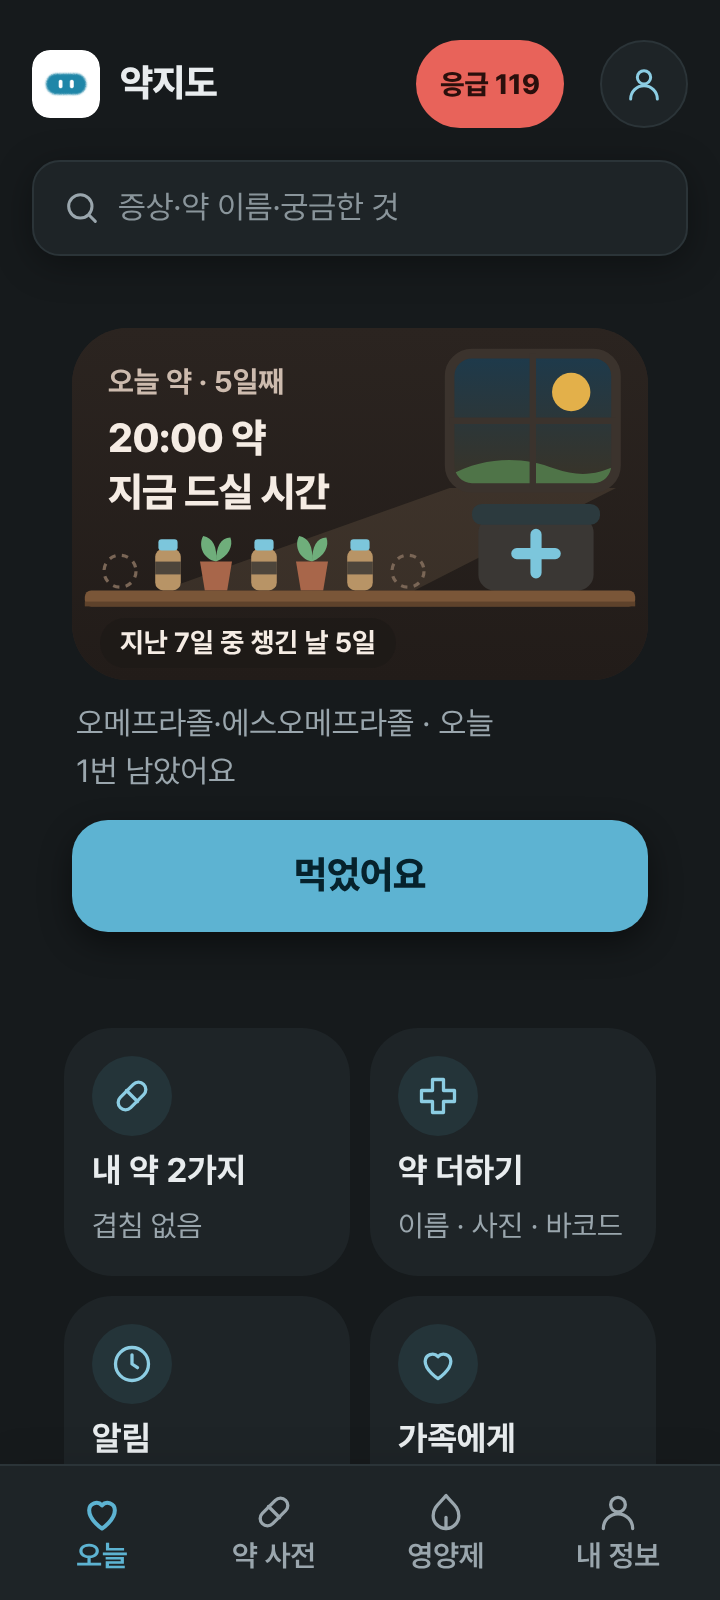
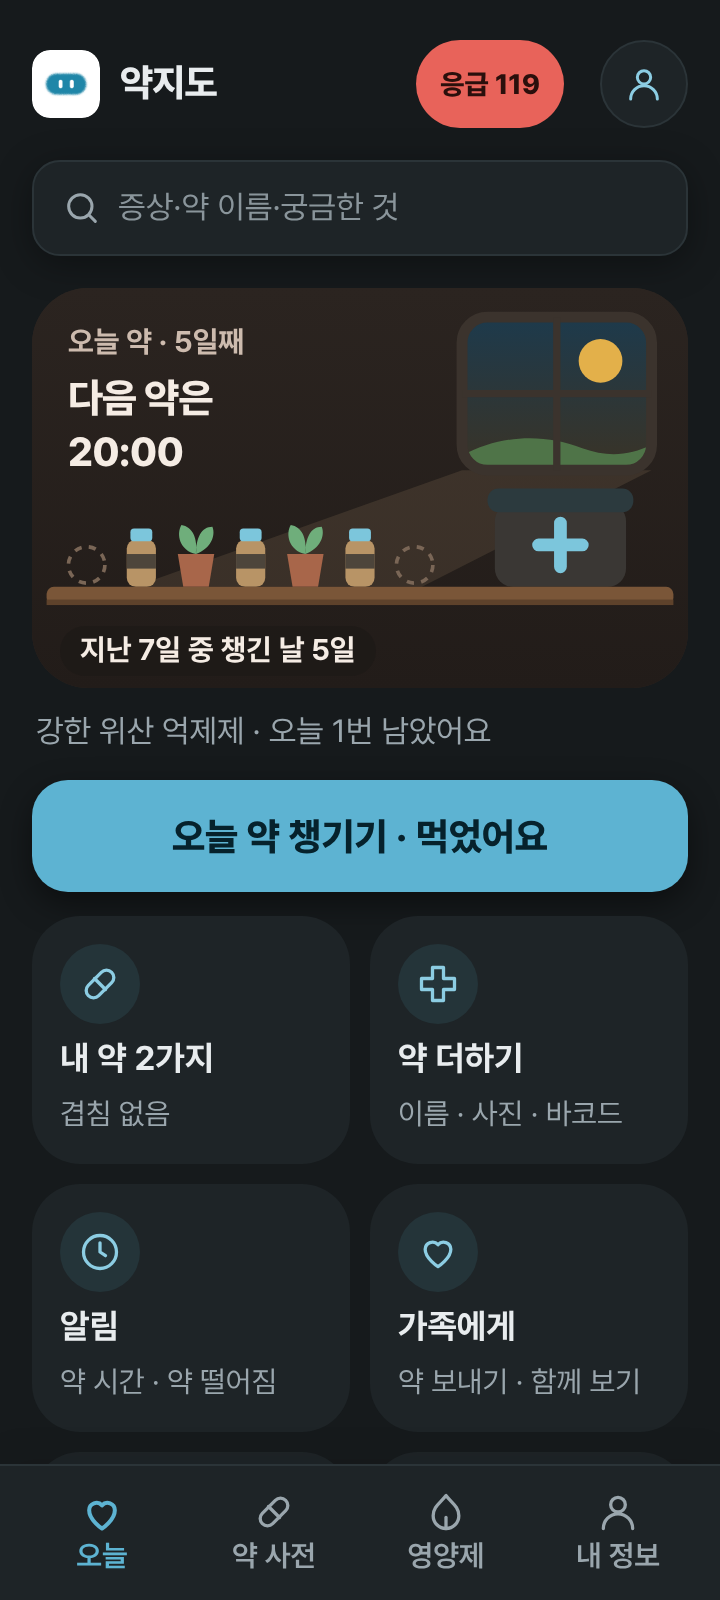
약지도 장면 홈: 묶음 약 이름은 갈래 이름으로 · 장면·타일 검색 칸과 같은 폭 · 같은 갈래 겹침 시험
Claude-Session: https://claude.ai/code/session_01EnA5kC7cG7NGAyuaz7gY2Z

diff --git a/docs/yakjido/srv.js b/docs/yakjido/srv.js
@@ -4096,7 +4096,7 @@ window.언어칸 = function () {
       ':root{--sc-w1:#FFF6E8;--sc-w2:#FBE7CF;--sc-s1:#BFE3F4;--sc-s2:#FFF3DA;--sc-wood:#C68B59;--sc-wood2:#A86F42;--sc-frame:#FFFFFF;--sc-box:#FFFFFF;--sc-lid:#E9F3F5;--sc-cross:#0B6E8F;--sc-pot:#D9875F;--sc-leaf:#5E9E6A;--sc-bot:#F2C98A;--sc-cap:#0B6E8F;--sc-lab:#FFFFFF;--sc-empty:#C9A98A;--sc-beam:rgba(255,236,190,.55);--sc-sun:#FFC94D;--sc-hill:#A9D39A;--sc-ink:#3A2A1E;--sc-sub:#6B5444;--sc-chip:rgba(255,255,255,.86);--tile:#FFFFFF;--tile-ic:#E7F2F5}'
     + '@media (prefers-color-scheme:dark){:root:not([data-theme="light"]){--sc-w1:#2B2420;--sc-w2:#221C19;--sc-s1:#1D3A4C;--sc-s2:#3A3326;--sc-wood:#7A5638;--sc-wood2:#5E422B;--sc-frame:#3B332D;--sc-box:#3A3734;--sc-lid:#2C3A3E;--sc-cross:#7CC6DC;--sc-pot:#A8664A;--sc-leaf:#6FAE7B;--sc-bot:#B89466;--sc-cap:#7CC6DC;--sc-lab:#3A3734;--sc-empty:#7A6656;--sc-beam:rgba(255,220,160,.10);--sc-sun:#E3B04A;--sc-hill:#4F7448;--sc-ink:#F5ECE4;--sc-sub:#CDBBAE;--sc-chip:rgba(30,26,23,.78);--tile:#1E2427;--tile-ic:#243439}}'
     + ':root[data-theme="dark"]{--sc-w1:#2B2420;--sc-w2:#221C19;--sc-s1:#1D3A4C;--sc-s2:#3A3326;--sc-wood:#7A5638;--sc-wood2:#5E422B;--sc-frame:#3B332D;--sc-box:#3A3734;--sc-lid:#2C3A3E;--sc-cross:#7CC6DC;--sc-pot:#A8664A;--sc-leaf:#6FAE7B;--sc-bot:#B89466;--sc-cap:#7CC6DC;--sc-lab:#3A3734;--sc-empty:#7A6656;--sc-beam:rgba(255,220,160,.10);--sc-sun:#E3B04A;--sc-hill:#4F7448;--sc-ink:#F5ECE4;--sc-sub:#CDBBAE;--sc-chip:rgba(30,26,23,.78);--tile:#1E2427;--tile-ic:#243439}'
-    + '.scn-wrap{margin:12px 0 0}.scn{position:relative;display:grid;border-radius:28px;overflow:hidden;background:var(--sc-w1)}.sc-svg{grid-area:1/1;align-self:end;display:block;width:100%;height:auto}.sc-edge{fill:var(--sc-wood2)}'
+    + '.th.scn-wrap,html:not(.ink) .job-hero.scn-wrap,.th-mine.scn-box{margin:12px 0 0;padding:0;background:none;border:0;box-shadow:none;text-align:left}.scn{position:relative;display:grid;border-radius:28px;overflow:hidden;background:var(--sc-w1)}.sc-svg{grid-area:1/1;align-self:end;display:block;width:100%;height:auto}.sc-edge{fill:var(--sc-wood2)}'
     + '.sc-w1{stop-color:var(--sc-w1)}.sc-w2{stop-color:var(--sc-w2)}.sc-s1{stop-color:var(--sc-s1)}.sc-s2{stop-color:var(--sc-s2)}.sc-beam{fill:var(--sc-beam)}.sc-sun{fill:var(--sc-sun)}.sc-hill{fill:var(--sc-hill)}'
     + '.sc-frame{fill:none;stroke:var(--sc-frame);stroke-width:6}.sc-bar{stroke:var(--sc-frame);stroke-width:4}.sc-box>rect{fill:var(--sc-box)}.sc-box .sc-lid{fill:var(--sc-lid)}.sc-cross{stroke:var(--sc-cross);stroke-width:7;stroke-linecap:round}'
     + '.sc-shelf{fill:var(--sc-wood)}.sc-brk{fill:none;stroke:var(--sc-wood2);stroke-width:4;stroke-linecap:round}.sc-empty{fill:none;stroke:var(--sc-empty);stroke-width:2;stroke-dasharray:4 4}'
@@ -4117,7 +4117,7 @@ window.언어칸 = function () {
     rows.sort(function (a, b) { return a.min - b.min; });
     var left = rows.filter(function (r) { return tk.indexOf(r.k) < 0 && !isSkipped(r.k); }), stk = 0; try { stk = streakDays(); } catch (e) {}
     var nx = left[0], slot = nx ? left.filter(function (r) { return r.t === nx.t; }) : [], due = nx && nx.min <= nm + 30;
-    var nmz = function (r) { return esc(String(r.d.simple && !r.d.name ? r.d.simple : r.d.name || '').split(' (')[0]); };
+    var nmz = function (r) { return esc(한이름(r.d.simple && !r.d.name ? r.d.simple : r.d.name)); };
     var 판 = '', stop = 0, warn = 0; try { var C = ixCards(ixRun([])); stop = C.filter(function (c) { return c.lv === 'stop'; }).length; warn = C.filter(function (c) { return c.lv === 'warn'; }).length; } catch (e) {}
     판 = stop ? '같이 드시면 안 되는 것 ' + stop : warn ? '조심할 것 ' + warn : '겹침 없음';
     var low = []; try { low = lowStock(); } catch (e) {}
@@ -4134,10 +4134,12 @@ window.언어칸 = function () {
       ['#/notify', 'clock', '알림', '약 시간 · 약 떨어짐'], ['#/send', 'heart', '가족에게', '약 보내기 · 함께 보기'],
       ['#/bag', 'book', '내 약 한 장', '진료·약국에 보여 줄 한 장'], ['내약더()', 'chev', '더 보기', '약통 · 가족 약 따로', 'scn-more']];
     return '<section class="th scn-wrap' + (sv ? ' sv' : '') + '">' + 안전 + profRow() + 약장면({ cap: cap, big: big, sub: sub, sv: sv, todayDone: done }) + 단추 + famToday() + '</section>'
-      + '<section class="th-mine' + (sv ? ' sv' : '') + '">' + 장면타일(타일).replace('class="scn-tiles"', 'class="scn-tiles' + (sv ? ' sv' : '') + '"') + (sv ? 쉬운목록(items) : '') + '</section>';
+      + '<section class="th-mine scn-box' + (sv ? ' sv' : '') + '">' + 장면타일(타일).replace('class="scn-tiles"', 'class="scn-tiles' + (sv ? ' sv' : '') + '"') + (sv ? 쉬운목록(items) : '') + '</section>';
   }
+  /* 11-18 Main — 한 약 이름에 성분 둘이 «·»로 붙은 묶음 항목(오메프라졸·에스오메프라졸 (강한 위산 억제제))은 두 약처럼 읽힌다 → 괄호 속 갈래 이름 */
+  function 한이름(n) { n = String(n || ''); var b = n.split(' (')[0], m = n.match(/\(([^)]+)\)/); return b.indexOf('·') >= 0 && m ? m[1] : b; }
   function 쉬운목록(items) {
-    return '<ul class="job-list">' + items.slice(0, 6).map(function (d) { var dk = d.class || ((typeof drug === 'function' && drug(d.id)) || {}).class, c0 = (D.classes || []).filter(function (c) { return c.id === dk; })[0], g = d.quick ? d.quick.g.n : c0 ? String(c0.name).split('(')[0].trim() : ''; return '<li><b>' + esc(짧은이름(d.name)) + '</b>' + (g ? '<span>' + esc(g) + '</span>' : '') + '</li>'; }).join('') + (items.length > 6 ? '<li><a href="#/me?t=meds">' + (items.length - 6) + '가지 더 ›</a></li>' : '') + '</ul>';
+    return '<ul class="job-list">' + items.slice(0, 6).map(function (d) { var dk = d.class || ((typeof drug === 'function' && drug(d.id)) || {}).class, c0 = (D.classes || []).filter(function (c) { return c.id === dk; })[0], g = d.quick ? d.quick.g.n : c0 ? String(c0.name).split('(')[0].trim() : ''; return '<li><b>' + esc(String(d.name || '').split(' (')[0].indexOf('·') >= 0 ? 한이름(d.name) : 짧은이름(d.name)) + '</b>' + (g ? '<span>' + esc(g) + '</span>' : '') + '</li>'; }).join('') + (items.length > 6 ? '<li><a href="#/me?t=meds">' + (items.length - 6) + '가지 더 ›</a></li>' : '') + '</ul>';
   }
   window.내약더 = function () { var o = document.createElement('div'); o.className = 'dlg-bg'; o.setAttribute('role', 'dialog'); o.setAttribute('aria-label', '내 약 더 보기');
     var L = [['#/notify', '알림', '약 시간 · 다시 알림 · 약 떨어짐'], ['#/send', '가족에게', '부모님께 약 보내기 · 함께 보기'], ['#/bag', '내 약 한 장', '진료·약국에 보여 줄 한 장'], ['#/me?t=meds', '약통', '담은 약 고치기 · 빼기'], ['#/barcode', '상자 바코드로 담기', '약 상자 옆 막대 무늬를 비춰서'], ['#/people', '가족 약 따로 담기', '어머니·아이 약을 사람마다']];
@@ -4152,7 +4154,7 @@ window.언어칸 = function () {
     if (!items.length && !잉 && !ALLV()) { var 누 = (profIsMe() ? '내 약을' : esc(profCall(profName())) + ' 약을') + '<br>담아 두세요';
       return '<section class="job-hero scn-wrap' + (sv0 ? ' sv' : '') + '">' + profRow() + 약장면({ cap: '오늘 약', big: 누, sub: '한 번 담으면 기억해요. 새 약이 들어오면 <b>같이 먹으면 안 되는 것</b>을 바로 알려 드려요.', sv: sv0 })
         + '<button type="button" class="btn th-go scn-go" ' + DI('solid') + ' onclick="go(\'/together\')">약 찾기</button>' + famToday() + '</section>'
-        + '<section class="th-mine' + (sv0 ? ' sv' : '') + '">' + 장면타일([['go(\'/photo\')', 'search', '사진으로 담기', '약봉투·처방전'], ['#/barcode', 'cross', '상자 바코드로', '상자 옆 막대 무늬'], ['#/kinds', 'pill', '종류만 골라 담기', '이름을 몰라도'], ['#/people', 'heart', '가족 약 따로', '어머니·아이 약']]).replace('class="scn-tiles"', 'class="scn-tiles' + (sv0 ? ' sv' : '') + '"') + '</section>'; }
+        + '<section class="th-mine scn-box' + (sv0 ? ' sv' : '') + '">' + 장면타일([['go(\'/photo\')', 'search', '사진으로 담기', '약봉투·처방전'], ['#/barcode', 'cross', '상자 바코드로', '상자 옆 막대 무늬'], ['#/kinds', 'pill', '종류만 골라 담기', '이름을 몰라도'], ['#/people', 'heart', '가족 약 따로', '어머니·아이 약']]).replace('class="scn-tiles"', 'class="scn-tiles' + (sv0 ? ' sv' : '') + '"') + '</section>'; }
     if (!items.length) return '<section class="job-hero' + (document.documentElement.classList.contains('ink') ? '' : ' card') + '">' + profRow() + 잉크얼굴(72) + '<h1>' + (profIsMe() ? '내 약을 담아 두세요' : esc(profCall(profName())) + ' 약을 담아 두세요') + '</h1><p>한 번 담으면 기억해요. 새 약이 들어오면 <b>같이 먹으면 안 되는 것</b>을 바로 알려 드려요.</p>' +
       '<div class="job-add"><button type="button" class="btn" ' + DI('solid') + ' onclick="go(\'/photo\')">약봉투·처방전 사진으로</button><button type="button" class="btn line" onclick="go(\'/together\')">약 이름으로 찾기</button></div>' +
       '<p class="job-small"><a href="#/kinds">이름을 몰라도 종류만 골라 담기 ›</a></p>' + famToday() + profLink() + '</section>';

diff --git a/yakjido/srv.js b/yakjido/srv.js
@@ -4096,7 +4096,7 @@ window.언어칸 = function () {
       ':root{--sc-w1:#FFF6E8;--sc-w2:#FBE7CF;--sc-s1:#BFE3F4;--sc-s2:#FFF3DA;--sc-wood:#C68B59;--sc-wood2:#A86F42;--sc-frame:#FFFFFF;--sc-box:#FFFFFF;--sc-lid:#E9F3F5;--sc-cross:#0B6E8F;--sc-pot:#D9875F;--sc-leaf:#5E9E6A;--sc-bot:#F2C98A;--sc-cap:#0B6E8F;--sc-lab:#FFFFFF;--sc-empty:#C9A98A;--sc-beam:rgba(255,236,190,.55);--sc-sun:#FFC94D;--sc-hill:#A9D39A;--sc-ink:#3A2A1E;--sc-sub:#6B5444;--sc-chip:rgba(255,255,255,.86);--tile:#FFFFFF;--tile-ic:#E7F2F5}'
     + '@media (prefers-color-scheme:dark){:root:not([data-theme="light"]){--sc-w1:#2B2420;--sc-w2:#221C19;--sc-s1:#1D3A4C;--sc-s2:#3A3326;--sc-wood:#7A5638;--sc-wood2:#5E422B;--sc-frame:#3B332D;--sc-box:#3A3734;--sc-lid:#2C3A3E;--sc-cross:#7CC6DC;--sc-pot:#A8664A;--sc-leaf:#6FAE7B;--sc-bot:#B89466;--sc-cap:#7CC6DC;--sc-lab:#3A3734;--sc-empty:#7A6656;--sc-beam:rgba(255,220,160,.10);--sc-sun:#E3B04A;--sc-hill:#4F7448;--sc-ink:#F5ECE4;--sc-sub:#CDBBAE;--sc-chip:rgba(30,26,23,.78);--tile:#1E2427;--tile-ic:#243439}}'
     + ':root[data-theme="dark"]{--sc-w1:#2B2420;--sc-w2:#221C19;--sc-s1:#1D3A4C;--sc-s2:#3A3326;--sc-wood:#7A5638;--sc-wood2:#5E422B;--sc-frame:#3B332D;--sc-box:#3A3734;--sc-lid:#2C3A3E;--sc-cross:#7CC6DC;--sc-pot:#A8664A;--sc-leaf:#6FAE7B;--sc-bot:#B89466;--sc-cap:#7CC6DC;--sc-lab:#3A3734;--sc-empty:#7A6656;--sc-beam:rgba(255,220,160,.10);--sc-sun:#E3B04A;--sc-hill:#4F7448;--sc-ink:#F5ECE4;--sc-sub:#CDBBAE;--sc-chip:rgba(30,26,23,.78);--tile:#1E2427;--tile-ic:#243439}'
-    + '.scn-wrap{margin:12px 0 0}.scn{position:relative;display:grid;border-radius:28px;overflow:hidden;background:var(--sc-w1)}.sc-svg{grid-area:1/1;align-self:end;display:block;width:100%;height:auto}.sc-edge{fill:var(--sc-wood2)}'
+    + '.th.scn-wrap,html:not(.ink) .job-hero.scn-wrap,.th-mine.scn-box{margin:12px 0 0;padding:0;background:none;border:0;box-shadow:none;text-align:left}.scn{position:relative;display:grid;border-radius:28px;overflow:hidden;background:var(--sc-w1)}.sc-svg{grid-area:1/1;align-self:end;display:block;width:100%;height:auto}.sc-edge{fill:var(--sc-wood2)}'
     + '.sc-w1{stop-color:var(--sc-w1)}.sc-w2{stop-color:var(--sc-w2)}.sc-s1{stop-color:var(--sc-s1)}.sc-s2{stop-color:var(--sc-s2)}.sc-beam{fill:var(--sc-beam)}.sc-sun{fill:var(--sc-sun)}.sc-hill{fill:var(--sc-hill)}'
     + '.sc-frame{fill:none;stroke:var(--sc-frame);stroke-width:6}.sc-bar{stroke:var(--sc-frame);stroke-width:4}.sc-box>rect{fill:var(--sc-box)}.sc-box .sc-lid{fill:var(--sc-lid)}.sc-cross{stroke:var(--sc-cross);stroke-width:7;stroke-linecap:round}'
     + '.sc-shelf{fill:var(--sc-wood)}.sc-brk{fill:none;stroke:var(--sc-wood2);stroke-width:4;stroke-linecap:round}.sc-empty{fill:none;stroke:var(--sc-empty);stroke-width:2;stroke-dasharray:4 4}'
@@ -4117,7 +4117,7 @@ window.언어칸 = function () {
     rows.sort(function (a, b) { return a.min - b.min; });
     var left = rows.filter(function (r) { return tk.indexOf(r.k) < 0 && !isSkipped(r.k); }), stk = 0; try { stk = streakDays(); } catch (e) {}
     var nx = left[0], slot = nx ? left.filter(function (r) { return r.t === nx.t; }) : [], due = nx && nx.min <= nm + 30;
-    var nmz = function (r) { return esc(String(r.d.simple && !r.d.name ? r.d.simple : r.d.name || '').split(' (')[0]); };
+    var nmz = function (r) { return esc(한이름(r.d.simple && !r.d.name ? r.d.simple : r.d.name)); };
     var 판 = '', stop = 0, warn = 0; try { var C = ixCards(ixRun([])); stop = C.filter(function (c) { return c.lv === 'stop'; }).length; warn = C.filter(function (c) { return c.lv === 'warn'; }).length; } catch (e) {}
     판 = stop ? '같이 드시면 안 되는 것 ' + stop : warn ? '조심할 것 ' + warn : '겹침 없음';
     var low = []; try { low = lowStock(); } catch (e) {}
@@ -4134,10 +4134,12 @@ window.언어칸 = function () {
       ['#/notify', 'clock', '알림', '약 시간 · 약 떨어짐'], ['#/send', 'heart', '가족에게', '약 보내기 · 함께 보기'],
       ['#/bag', 'book', '내 약 한 장', '진료·약국에 보여 줄 한 장'], ['내약더()', 'chev', '더 보기', '약통 · 가족 약 따로', 'scn-more']];
     return '<section class="th scn-wrap' + (sv ? ' sv' : '') + '">' + 안전 + profRow() + 약장면({ cap: cap, big: big, sub: sub, sv: sv, todayDone: done }) + 단추 + famToday() + '</section>'
-      + '<section class="th-mine' + (sv ? ' sv' : '') + '">' + 장면타일(타일).replace('class="scn-tiles"', 'class="scn-tiles' + (sv ? ' sv' : '') + '"') + (sv ? 쉬운목록(items) : '') + '</section>';
+      + '<section class="th-mine scn-box' + (sv ? ' sv' : '') + '">' + 장면타일(타일).replace('class="scn-tiles"', 'class="scn-tiles' + (sv ? ' sv' : '') + '"') + (sv ? 쉬운목록(items) : '') + '</section>';
   }
+  /* 11-18 Main — 한 약 이름에 성분 둘이 «·»로 붙은 묶음 항목(오메프라졸·에스오메프라졸 (강한 위산 억제제))은 두 약처럼 읽힌다 → 괄호 속 갈래 이름 */
+  function 한이름(n) { n = String(n || ''); var b = n.split(' (')[0], m = n.match(/\(([^)]+)\)/); return b.indexOf('·') >= 0 && m ? m[1] : b; }
   function 쉬운목록(items) {
-    return '<ul class="job-list">' + items.slice(0, 6).map(function (d) { var dk = d.class || ((typeof drug === 'function' && drug(d.id)) || {}).class, c0 = (D.classes || []).filter(function (c) { return c.id === dk; })[0], g = d.quick ? d.quick.g.n : c0 ? String(c0.name).split('(')[0].trim() : ''; return '<li><b>' + esc(짧은이름(d.name)) + '</b>' + (g ? '<span>' + esc(g) + '</span>' : '') + '</li>'; }).join('') + (items.length > 6 ? '<li><a href="#/me?t=meds">' + (items.length - 6) + '가지 더 ›</a></li>' : '') + '</ul>';
+    return '<ul class="job-list">' + items.slice(0, 6).map(function (d) { var dk = d.class || ((typeof drug === 'function' && drug(d.id)) || {}).class, c0 = (D.classes || []).filter(function (c) { return c.id === dk; })[0], g = d.quick ? d.quick.g.n : c0 ? String(c0.name).split('(')[0].trim() : ''; return '<li><b>' + esc(String(d.name || '').split(' (')[0].indexOf('·') >= 0 ? 한이름(d.name) : 짧은이름(d.name)) + '</b>' + (g ? '<span>' + esc(g) + '</span>' : '') + '</li>'; }).join('') + (items.length > 6 ? '<li><a href="#/me?t=meds">' + (items.length - 6) + '가지 더 ›</a></li>' : '') + '</ul>';
   }
   window.내약더 = function () { var o = document.createElement('div'); o.className = 'dlg-bg'; o.setAttribute('role', 'dialog'); o.setAttribute('aria-label', '내 약 더 보기');
     var L = [['#/notify', '알림', '약 시간 · 다시 알림 · 약 떨어짐'], ['#/send', '가족에게', '부모님께 약 보내기 · 함께 보기'], ['#/bag', '내 약 한 장', '진료·약국에 보여 줄 한 장'], ['#/me?t=meds', '약통', '담은 약 고치기 · 빼기'], ['#/barcode', '상자 바코드로 담기', '약 상자 옆 막대 무늬를 비춰서'], ['#/people', '가족 약 따로 담기', '어머니·아이 약을 사람마다']];
@@ -4152,7 +4154,7 @@ window.언어칸 = function () {
     if (!items.length && !잉 && !ALLV()) { var 누 = (profIsMe() ? '내 약을' : esc(profCall(profName())) + ' 약을') + '<br>담아 두세요';
       return '<section class="job-hero scn-wrap' + (sv0 ? ' sv' : '') + '">' + profRow() + 약장면({ cap: '오늘 약', big: 누, sub: '한 번 담으면 기억해요. 새 약이 들어오면 <b>같이 먹으면 안 되는 것</b>을 바로 알려 드려요.', sv: sv0 })
         + '<button type="button" class="btn th-go scn-go" ' + DI('solid') + ' onclick="go(\'/together\')">약 찾기</button>' + famToday() + '</section>'
-        + '<section class="th-mine' + (sv0 ? ' sv' : '') + '">' + 장면타일([['go(\'/photo\')', 'search', '사진으로 담기', '약봉투·처방전'], ['#/barcode', 'cross', '상자 바코드로', '상자 옆 막대 무늬'], ['#/kinds', 'pill', '종류만 골라 담기', '이름을 몰라도'], ['#/people', 'heart', '가족 약 따로', '어머니·아이 약']]).replace('class="scn-tiles"', 'class="scn-tiles' + (sv0 ? ' sv' : '') + '"') + '</section>'; }
+        + '<section class="th-mine scn-box' + (sv0 ? ' sv' : '') + '">' + 장면타일([['go(\'/photo\')', 'search', '사진으로 담기', '약봉투·처방전'], ['#/barcode', 'cross', '상자 바코드로', '상자 옆 막대 무늬'], ['#/kinds', 'pill', '종류만 골라 담기', '이름을 몰라도'], ['#/people', 'heart', '가족 약 따로', '어머니·아이 약']]).replace('class="scn-tiles"', 'class="scn-tiles' + (sv0 ? ' sv' : '') + '"') + '</section>'; }
     if (!items.length) return '<section class="job-hero' + (document.documentElement.classList.contains('ink') ? '' : ' card') + '">' + profRow() + 잉크얼굴(72) + '<h1>' + (profIsMe() ? '내 약을 담아 두세요' : esc(profCall(profName())) + ' 약을 담아 두세요') + '</h1><p>한 번 담으면 기억해요. 새 약이 들어오면 <b>같이 먹으면 안 되는 것</b>을 바로 알려 드려요.</p>' +
       '<div class="job-add"><button type="button" class="btn" ' + DI('solid') + ' onclick="go(\'/photo\')">약봉투·처방전 사진으로</button><button type="button" class="btn line" onclick="go(\'/together\')">약 이름으로 찾기</button></div>' +
       '<p class="job-small"><a href="#/kinds">이름을 몰라도 종류만 골라 담기 ›</a></p>' + famToday() + profLink() + '</section>';

diff --git a/docs/yakjido/sw.js b/docs/yakjido/sw.js
@@ -9,7 +9,7 @@
                        판이 같으면 캐시 그대로, 판이 바뀌면 새로 받아 넣고 옛 판은 지운다(prune).
    판 없는 옛 주소는 «캐시 먼저» — 한 번 받은 것은 즉시 열리고, 뒤에서 조용히 새로 받아 둔다.
    인터넷이 안 되면 어느 캐시에든 있는 사본을 준다(5-01 — 첫 방문 뒤 비행기 모드에서 본문이 안 뜨던 것). */
-const CACHE = 'yakjido-2026-11-18T23:59-1e99dd50';
+const CACHE = 'yakjido-2026-11-19T00:10-037a7fe8';
 const DATA = 'yakjido-data-v1';
 /* 기내 모드·바깥 파일 0(10-27) — 글꼴(fonts/)·로그인 프로그램(vendor/)은 배포 묶음 안. 판이 박힌 꾸러미라 내용이 안 바뀌니 «캐시 먼저», 앱 판이 바뀌어도 지우지 않는다(EXT).
    바깥 주소는 하나도 담지 않는다 — 서버 응답(supabase REST)·날씨는 그대로 지나간다(09-22 원칙) */

diff --git a/docs/yakjido/index.html b/docs/yakjido/index.html
@@ -1810,7 +1810,7 @@ html:not(.ink) .rf-none{display:none}</style>
 <script>
 window.__YAKJIDO_OK__ = true;
 const D = JSON.parse(document.getElementById('data').textContent || '{}');
-const BUILD = '2026-11-18 23:59';
+const BUILD = '2026-11-19 00:10';
 const DATAV = '67ebd68324'.indexOf('__') === 0 ? BUILD : '67ebd68324';
 const BRANDMARK = (typeof window !== 'undefined' && window.__BRANDMARK__) || 'icon-192.png';
 let CORE = 0, CORE_P = null;

diff --git a/yakjido/tests/samecls.py b/yakjido/tests/samecls.py
@@ -1,0 +1,26 @@
+"""같은 갈래 두 약(PPI 둘 · 소염진통제 둘 · 아세트아미노펜 복합 둘)이 겹침 카드(stop/warn)로 잡히나 — 11-18 Main 안전 확인. 쓰는 법: python3 yakjido/tests/samecls.py (빌드 뒤)"""
+import http.server, socketserver, threading, functools, json
+from playwright.sync_api import sync_playwright
+import pathlib, sys
+D=str(pathlib.Path(__file__).resolve().parents[2]/'docs'/'yakjido')
+class Q(http.server.SimpleHTTPRequestHandler):
+    def log_message(self,*a): pass
+srv=socketserver.TCPServer(('127.0.0.1',0),functools.partial(Q,directory=D)); threading.Thread(target=srv.serve_forever,daemon=True).start()
+U=f'http://127.0.0.1:{srv.server_address[1]}/'
+SEED="localStorage.setItem('yakjido.hello.v1','1');localStorage.setItem('yakjido.consent.v1',JSON.stringify({v:'2026-10-20',at:'2026-11-18',terms:1,privacy:1}));"
+with sync_playwright() as p:
+    b=p.chromium.launch(executable_path='/opt/pw-browsers/chromium-1194/chrome-linux/chrome',args=['--no-sandbox'])
+    pg=b.new_page(); pg.add_init_script(SEED); pg.goto(U+'#/home'); pg.wait_for_function("()=>typeof ixRun==='function'&&D.drugs&&D.drugs.length")
+    pg.evaluate("()=>{pubIndexSoon&&pubIndexSoon();}"); pg.wait_for_function("()=>PUB.index&&PUB.index.length>100",timeout=60000)
+    r=pg.evaluate("""()=>{ME.taking=[];const dr=id=>D.drugs.find(d=>d.id===id);
+      const C=[['PPI 둘(오메프라졸+에스오메프라졸 넥시움)',[dr('omeprazole'),{name:'넥시움정 20 mg',ings:ingFind('에스오메프라졸마그네슘삼수화물')}]],
+        ['PPI 둘(넥시움+오엠피)',[{name:'넥시움정',ings:ingFind('에스오메프라졸')},{name:'오엠피정',ings:ingFind('오메프라졸')}]],
+        ['NSAID 둘(이부프로펜+나프록센)',[dr('ibuprofen'),dr('naproxen')]],['NSAID 둘(이부프로펜+덱시부프로펜)',[dr('ibuprofen'),dr('dexibuprofen')]],
+        ['NSAID 둘(아스피린+세레콕시브)',[dr('aspirin'),dr('celecoxib')]],
+        ['아세트아미노펜 둘(타이레놀+판콜에이)',[dr('acetaminophen'),dr('pancol-a')]],['아세트아미노펜 복합 둘(펜잘+게보린)',[dr('penzal'),dr('geworin')]]];
+      return C.map(([n,L])=>{const c=ixCards(ixRun(L));return n+' → '+(c.length?c.map(x=>x.lv+':'+String(x.t||x.title||x.h||'').replace(/<[^>]+>/g,'').slice(0,40)).join(' / '):'카드 없음 ✘')})}""")
+    print('\n'.join(r)); bad=[x for x in r if not (' stop:' in x or ' warn:' in x)]
+    nm=pg.evaluate("()=>{const d=D.drugs.find(x=>x.id==='omeprazole');return d.name}")
+    b.close()
+srv.shutdown()
+print('같은 갈래 둘', len(r), '건 — 놓침', len(bad)); sys.exit(1 if bad else 0)
